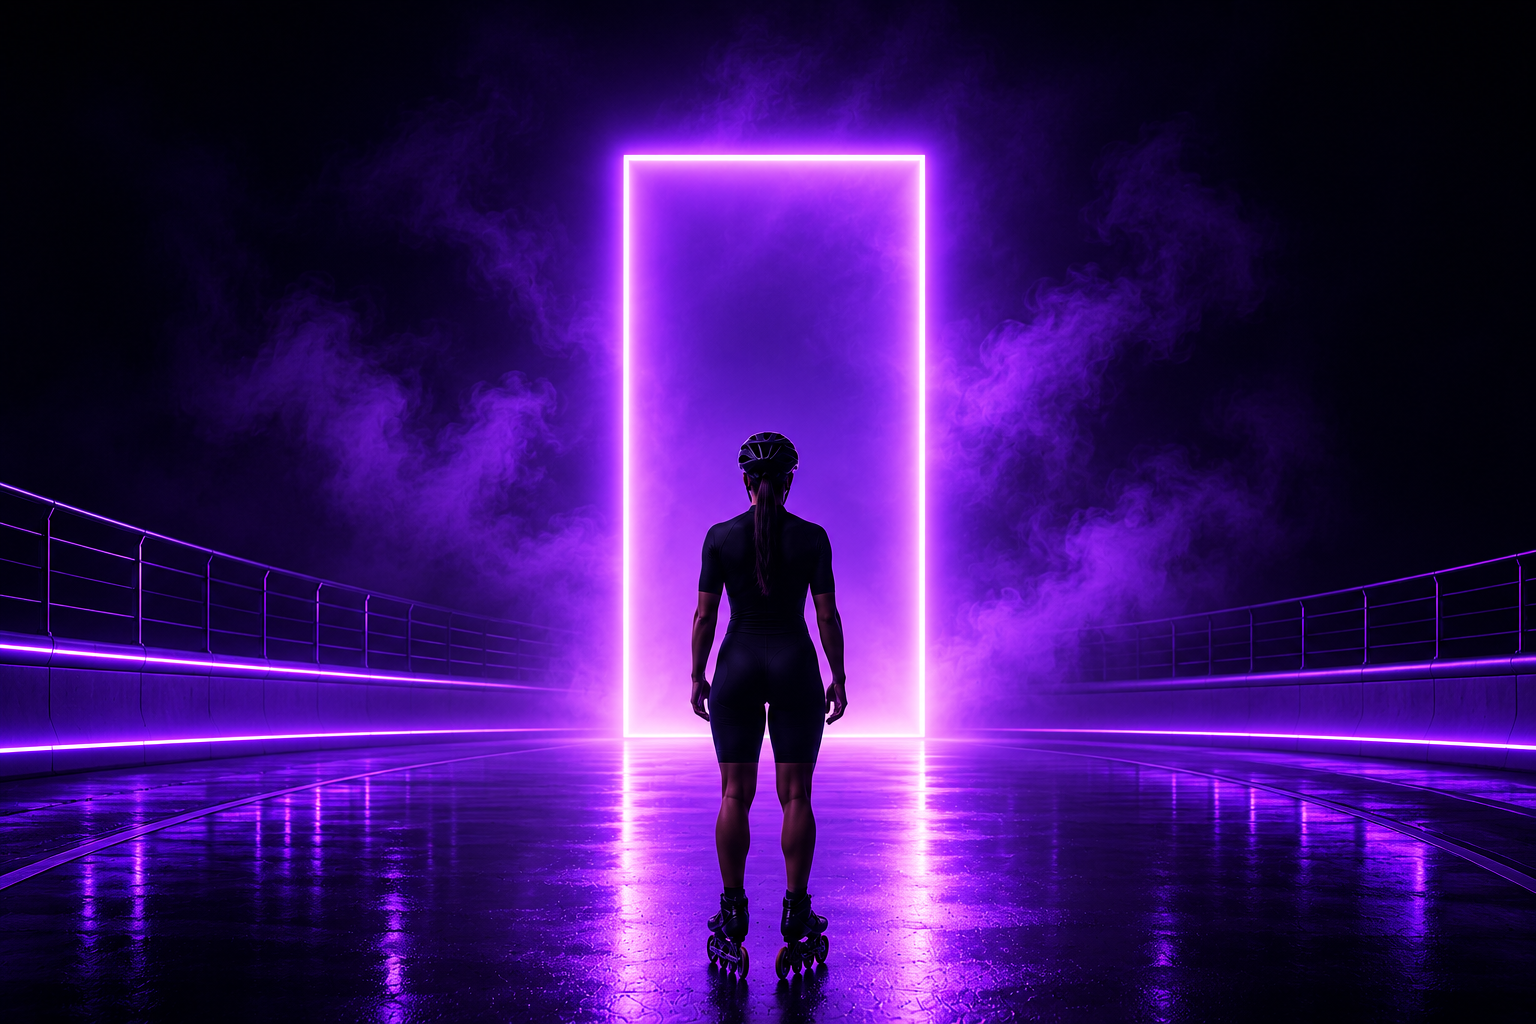
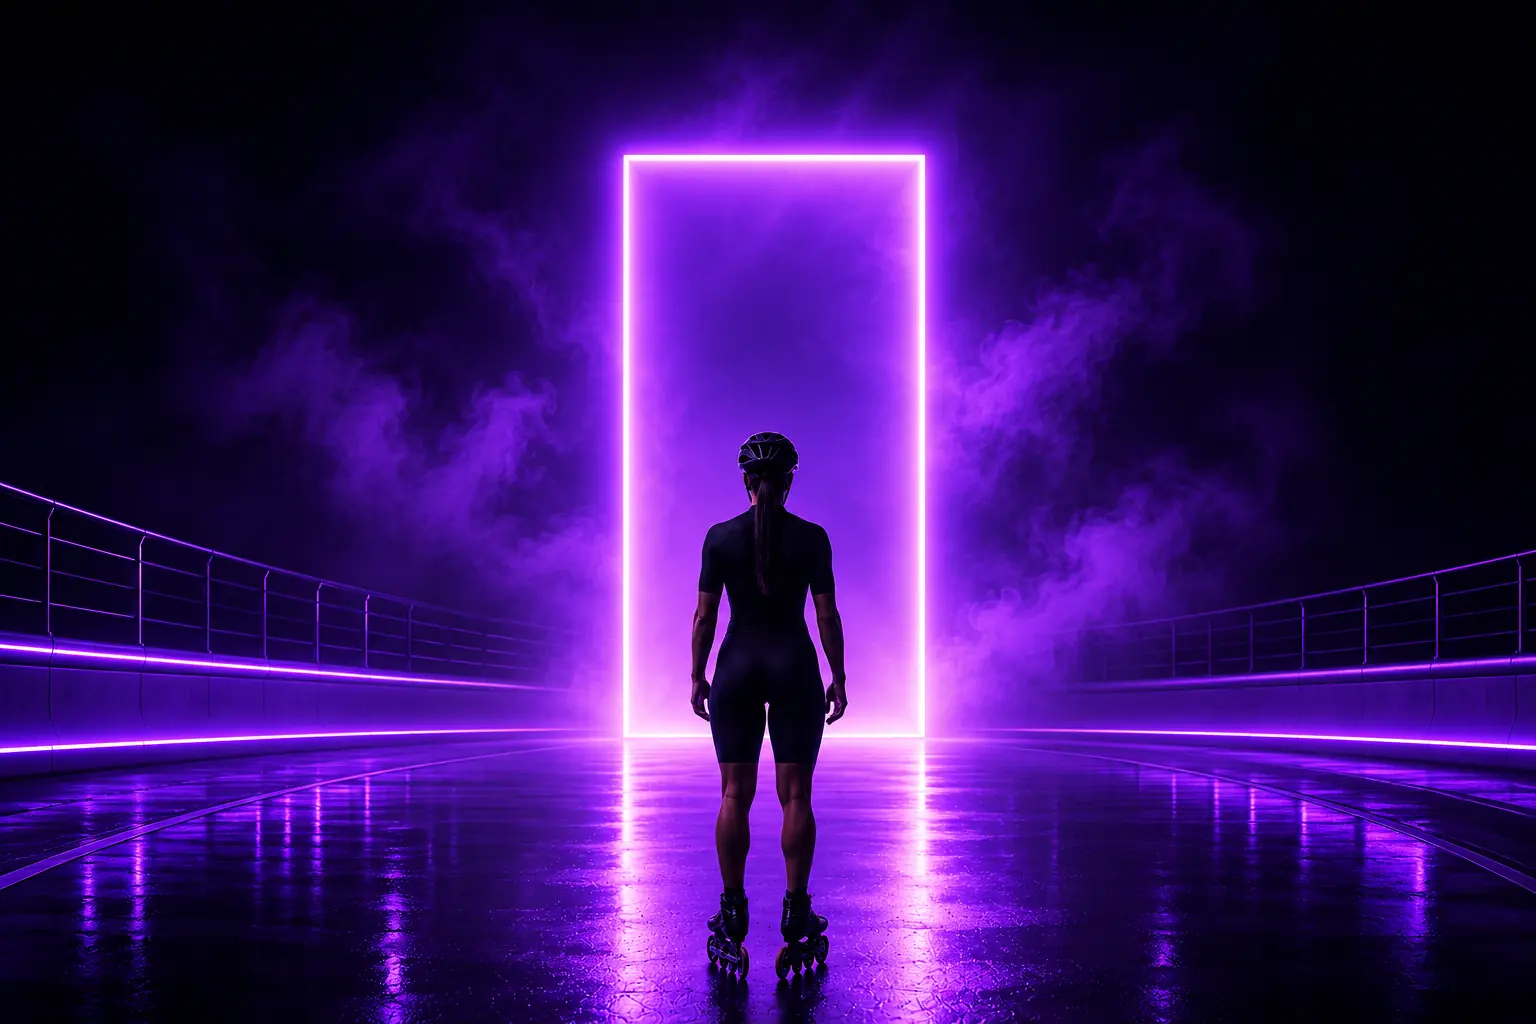
perf(landing): imágenes optimizadas WebP (-95%), priority LCP y preload hero-bg

diff --git a/web/components/ui/glassmorphism-trust-hero.tsx b/web/components/ui/glassmorphism-trust-hero.tsx
@@ -114,10 +114,11 @@ export default function GlassmorphismHero() {
           {/* Columna derecha — imagen solo desktop */}
           <div className="hidden lg:flex lg:col-span-5 items-center justify-center">
             <Image
-              src="/version-movil.png"
+              src="/version-movil.webp"
               alt="VeloClub versión móvil"
               width={600}
               height={420}
+              priority
               className="w-full max-w-lg object-contain drop-shadow-2xl"
             />
           </div>

diff --git a/web/app/page.tsx b/web/app/page.tsx
@@ -209,7 +209,7 @@ export default function HomePage() {
       <section className="lg:hidden w-full bg-white py-10">
         <div className="max-w-5xl mx-auto px-5 flex justify-center">
           <Image
-            src="/version-movil.png"
+            src="/version-movil.webp"
             alt="VeloClub versión móvil"
             width={720}
             height={400}

diff --git a/web/app/layout.tsx b/web/app/layout.tsx
@@ -37,6 +37,7 @@ export default function RootLayout({
       >
         <head>
           <link rel="apple-touch-icon" sizes="180x180" href="/apple-touch-icon.png" />
+          <link rel="preload" as="image" href="/hero-bg.webp" type="image/webp" />
         </head>
         <body className="min-h-full flex flex-col">
           {/* Desregistra service workers viejos en todos los dispositivos */}